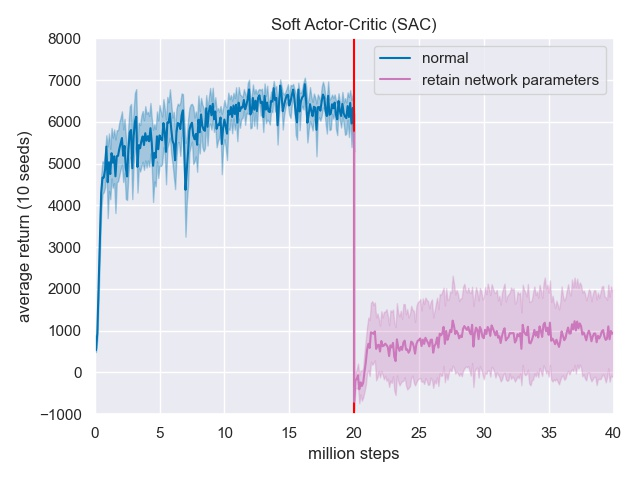
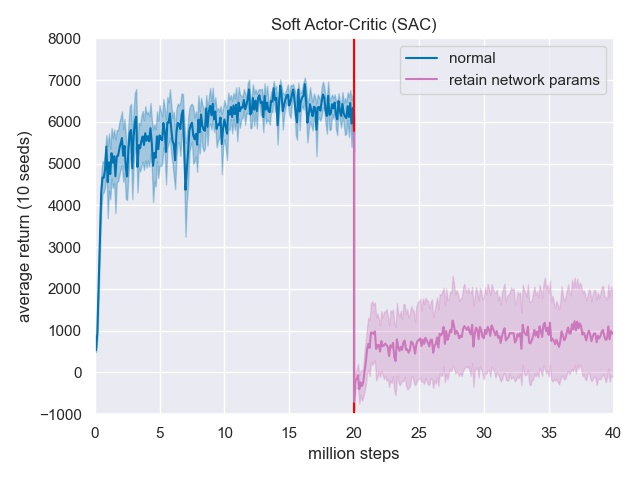
updated presentation

Changed region(s): [[0.5938, 0.0938, 0.9375, 0.1875]]

diff --git a/plot/presentation/presentation.py b/plot/presentation/presentation.py
@@ -10,16 +10,12 @@ sns.set_theme()
 sns.set_palette("colorblind", color_codes=True)
 
 
-def plot_experiment(directory, plot_filename, plot_title=""):
+def plot_experiment(directory):
     """
     Plot all four settings for a single fault.
 
     @param directory: string
         absolute path for directory containing all experiments for a single fault (e.g. .../shared/fetchreach/faulty/sac/v1/)
-    @param plot_filename: string
-        filename for the plot
-    @param plot_title: string
-        title for the plot
     """
 
     algorithm = ""
@@ -132,14 +128,16 @@ def plot_experiment(directory, plot_filename, plot_title=""):
     # plot settings
 
     if algorithm == "SAC":
-        labels = ["retain all data", "retain network parameters", "retain replay buffer", "retain no data"]
+        title = "Soft Actor-Critic (SAC)"
+        labels = ["retain all data", "retain network params", "retain replay buffer", "retain no data"]
     else:
-        labels = ["retain all data", "retain network parameters", "retain memory", "retain no data"]
+        title = "Proximal Policy Optimization (PPO)"
+        labels = ["retain all data", "retain network params", "retain memory", "retain no data"]
 
     plot_directory = os.path.join(os.getcwd(), "plots", algorithm, ab_env)
     os.makedirs(plot_directory, exist_ok=True)
 
-    # 'b' as blue, 'g' as green, 'r' as red, 'c' as cyan, 'm' as magenta, 'y' as yellow, 'k' as black, 'w' as white
+    # "b" as blue, "g" as green, "r" as red, "c" as cyan, "m" as magenta, "y" as yellow, "k" as black, "w" as white
     colors = ["b", "g", "m", "k", "r"]
 
     x_divisor = 1000000
@@ -204,23 +202,23 @@ def plot_experiment(directory, plot_filename, plot_title=""):
             zoom.fill_between(x, lb, ub, color=colors[i + 1], alpha=0.3)
 
         main.axvline(x=x_fault_onset, color="red", ymax=0.98)
-        main.fill_between((zoom_min_x, zoom_max_x), zoom_min_y, zoom_max_y, facecolor='black', alpha=0.2)
+        main.fill_between((zoom_min_x, zoom_max_x), zoom_min_y, zoom_max_y, facecolor="black", alpha=0.2)
 
         zoom.axvline(x=20, color="red", lw=4, ymax=0.98)
 
         connector1 = ConnectionPatch(xyA=(zoom_min_x, zoom_max_y), coordsA=main.transData,
                                      xyB=(zoom_min_x, zoom_min_y), coordsB=zoom.transData,
-                                     color='black',
+                                     color="black",
                                      alpha=0.3)
         fig.add_artist(connector1)
 
         connector2 = ConnectionPatch(xyA=(zoom_max_x, zoom_max_y), coordsA=main.transData,
                                      xyB=(zoom_max_x, zoom_min_y), coordsB=zoom.transData,
-                                     color='black',
+                                     color="black",
                                      alpha=0.3)
         fig.add_artist(connector2)
 
-        fig.legend(loc="upper left")
+        fig.legend(bbox_to_anchor=[0.2, 0.78], loc="center")
 
         main.set_xlim(0, 40)
         zoom.set_xlim(zoom_min_x, zoom_max_x)
@@ -228,7 +226,8 @@ def plot_experiment(directory, plot_filename, plot_title=""):
         zoom.set_ylim(-1000, 8000)
         main.set_xlabel("million steps")
         main.set_ylabel("average return\n(10 seeds)")
-        zoom.set_title(plot_title)
+        main.set_title(title)
+        # zoom.set_title(title, loc="left", pad=20, position=position)
         plt.tight_layout()
         plt.savefig(plot_directory + "/{}_{}_sub.jpg".format(algorithm, ab_env))
         plt.show()
@@ -380,4 +379,6 @@ if __name__ == "__main__":
     # if True, plot 95% confidence interval; if False, plot standard error
     ci = False
 
-    plot_experiment("/mnt/DATA/shared/ant/faulty/sac/v1", "ant_sac_v1", "Soft Actor-Critic (SAC)")
+    sac_data_dir = "/mnt/DATA/shared/ant/faulty/sac"
+
+    plot_experiment(os.path.join(sac_data_dir, "v1"))
